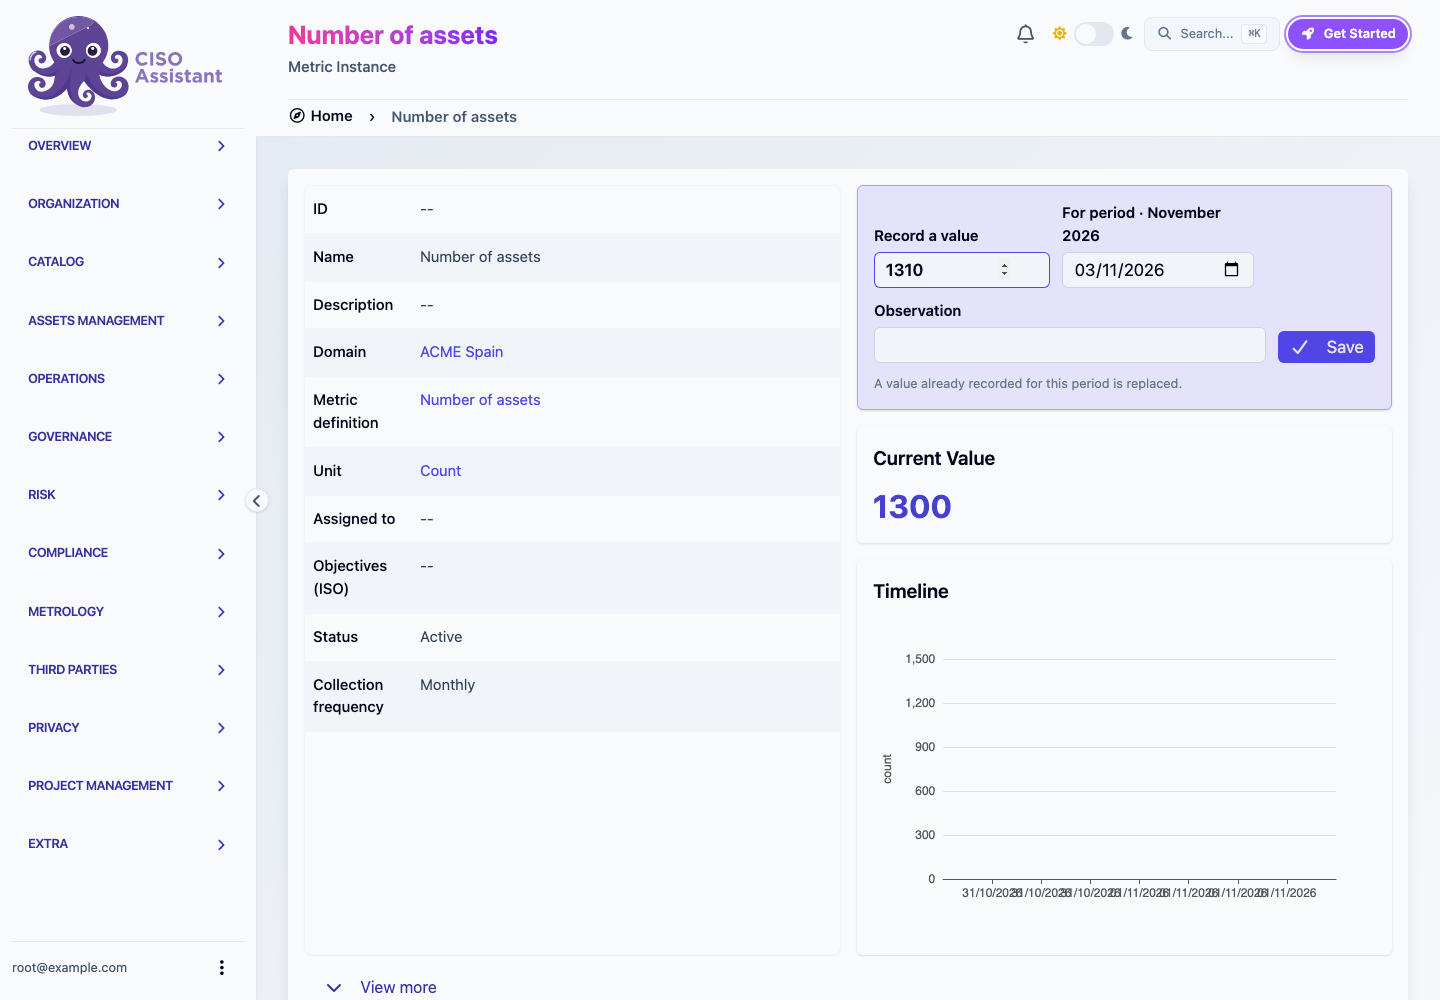
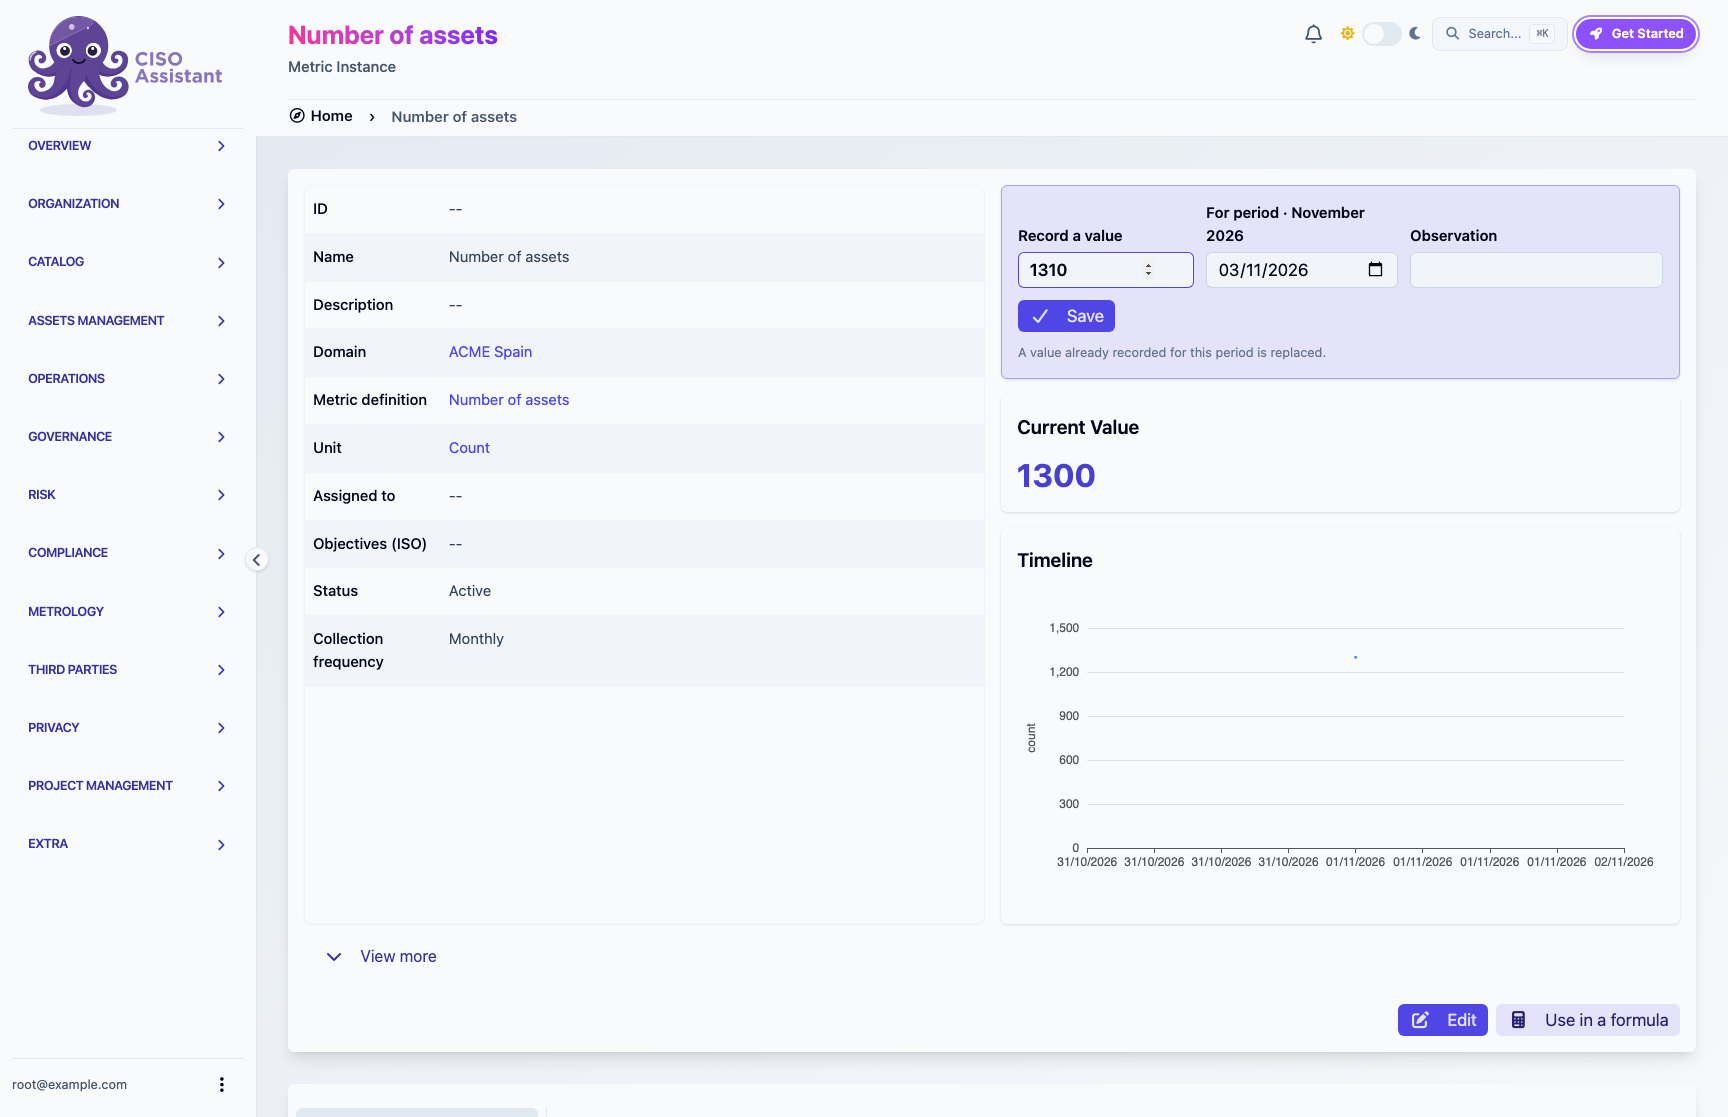
docs(product): record-value screenshot at a laptop viewport

diff --git a/frontend/tests/docs-screenshots/manifest.ts b/frontend/tests/docs-screenshots/manifest.ts
@@ -239,8 +239,8 @@ export const shots: Shot[] = [
 		url: '/metric-instances/597d588f-e161-46e5-9f66-53f7b632bfc2',
 		usedBy: ['features/metrics/recording-values.md', 'concepts/metrics.md'],
 		act: async (page) => {
-			// The whole page, so the strip is seen where it lives.
-			await page.setViewportSize({ width: 1440, height: 1000 });
+			// The whole page at a 16-inch MacBook's default size, so the strip is seen where it lives.
+			await page.setViewportSize({ width: 1728, height: 1117 });
 			await page.getByTestId('record-value-input').fill('1310');
 		}
 	},
